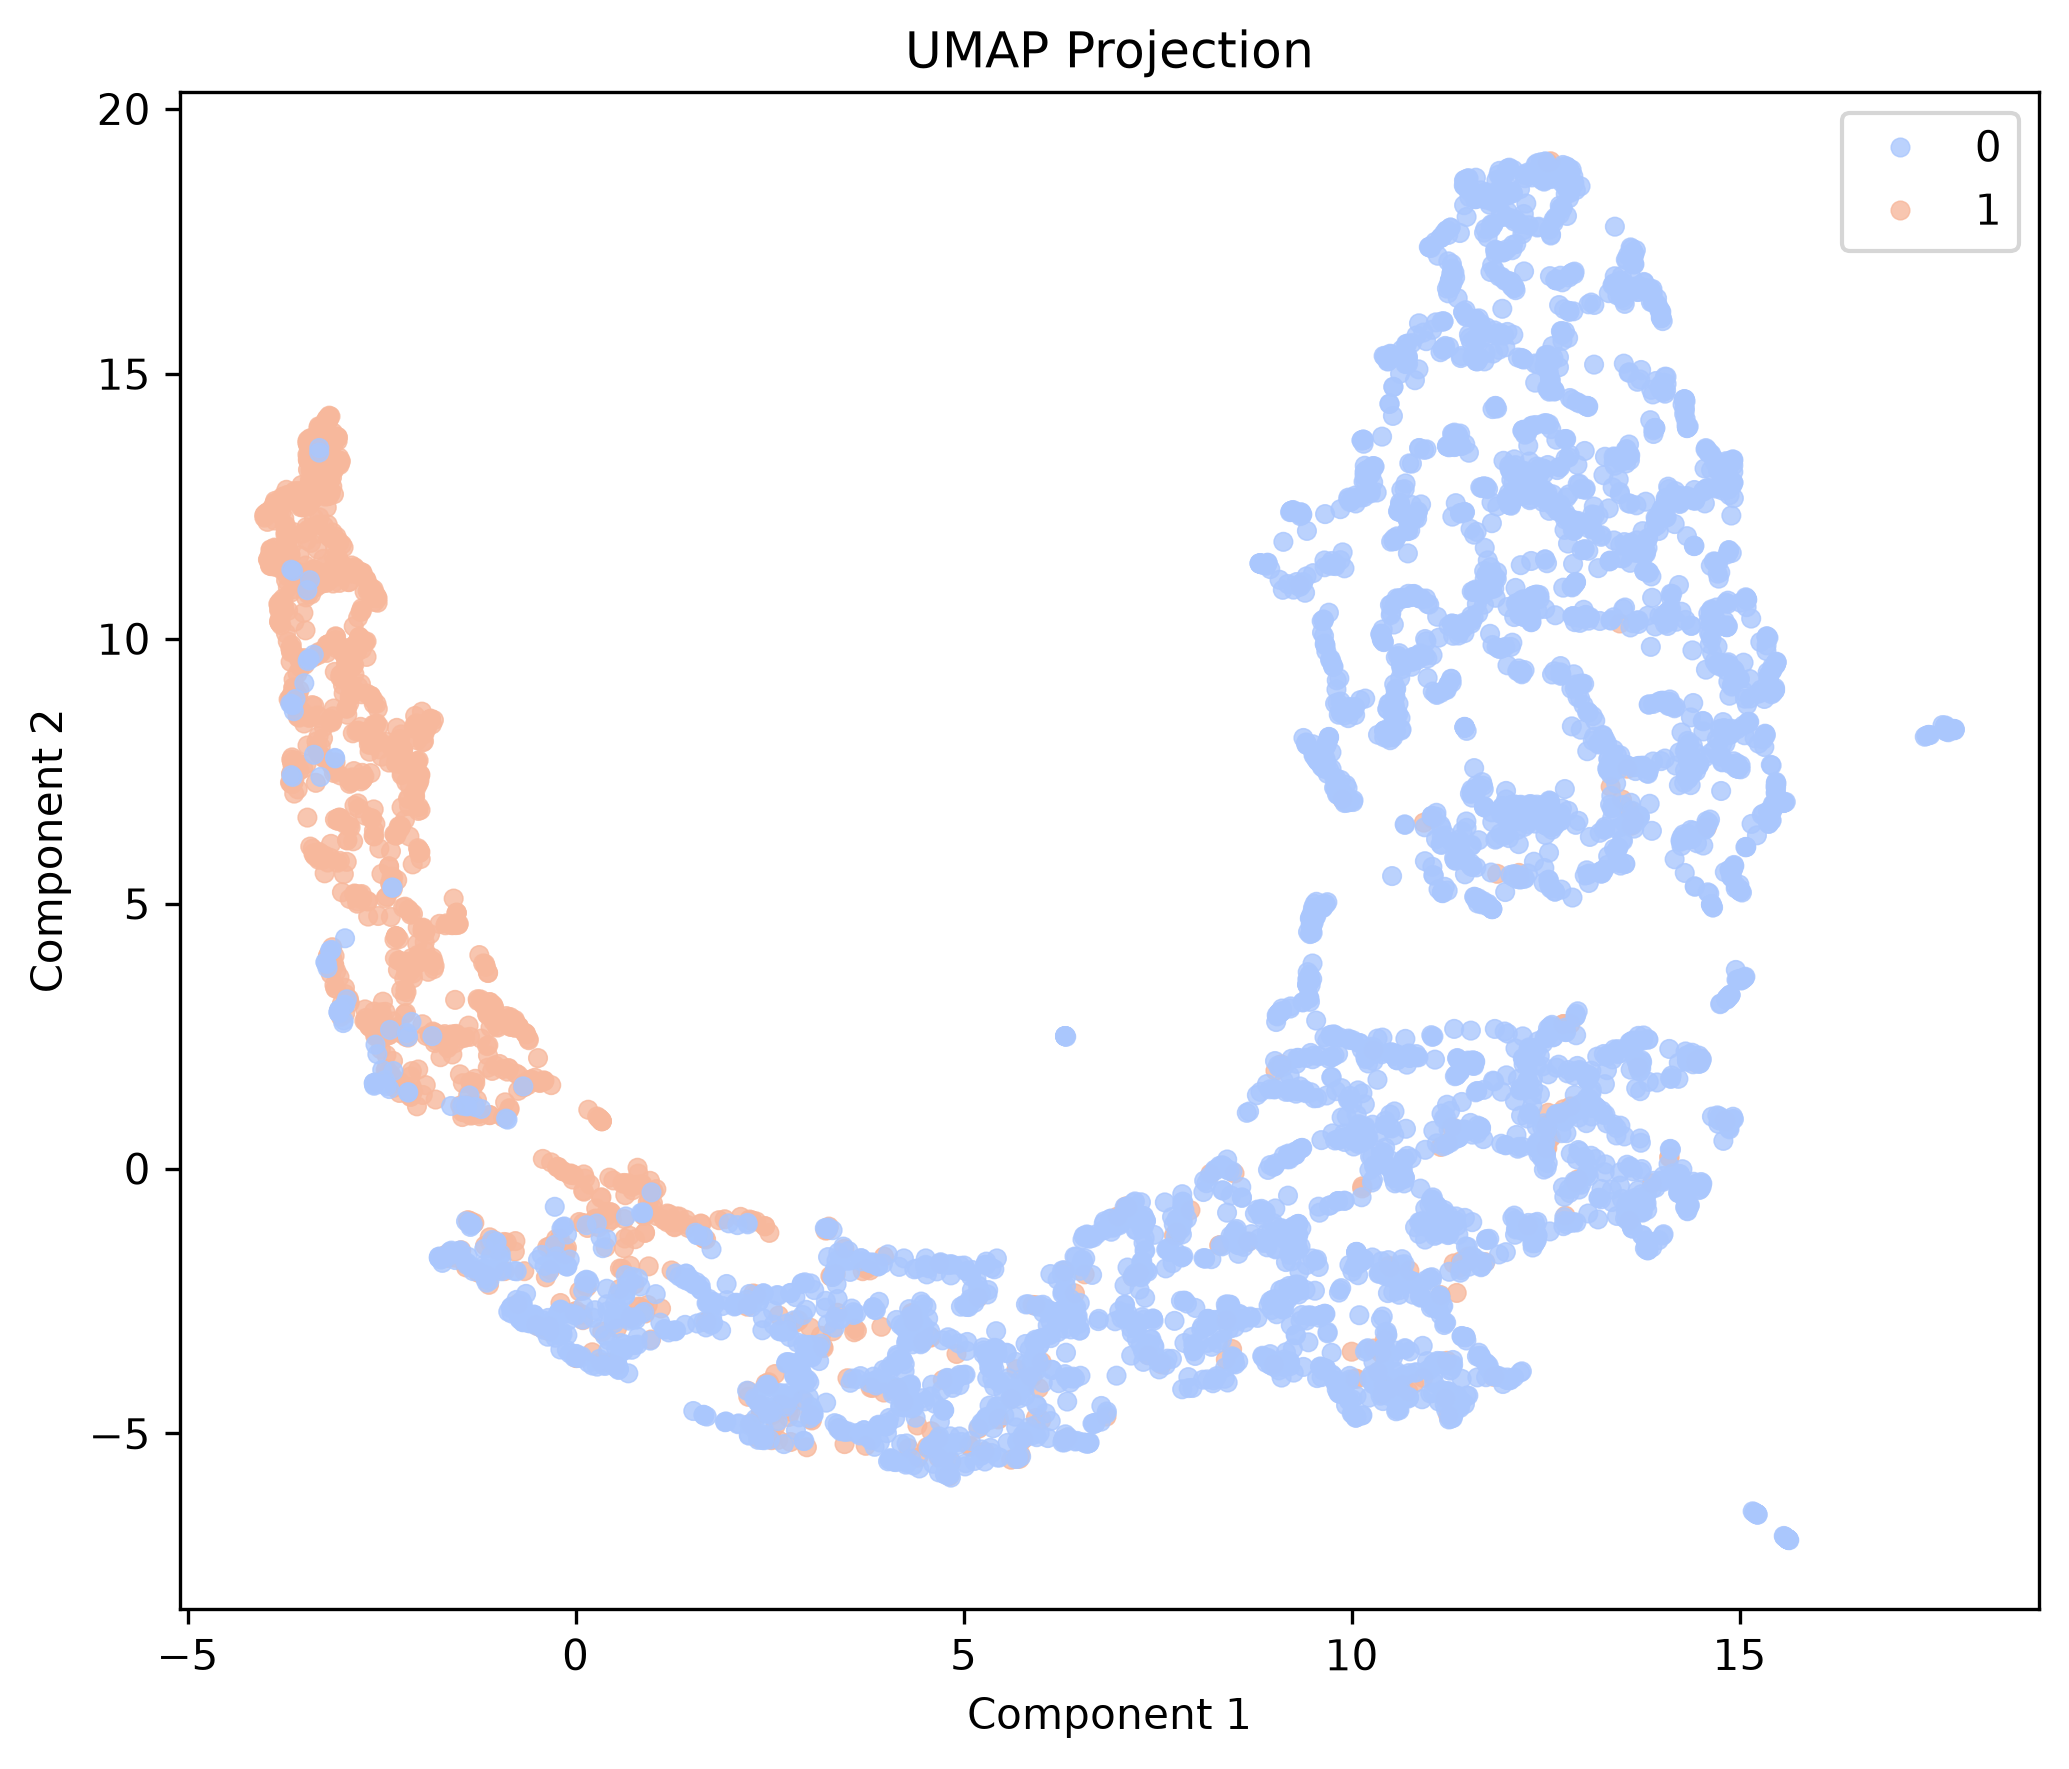
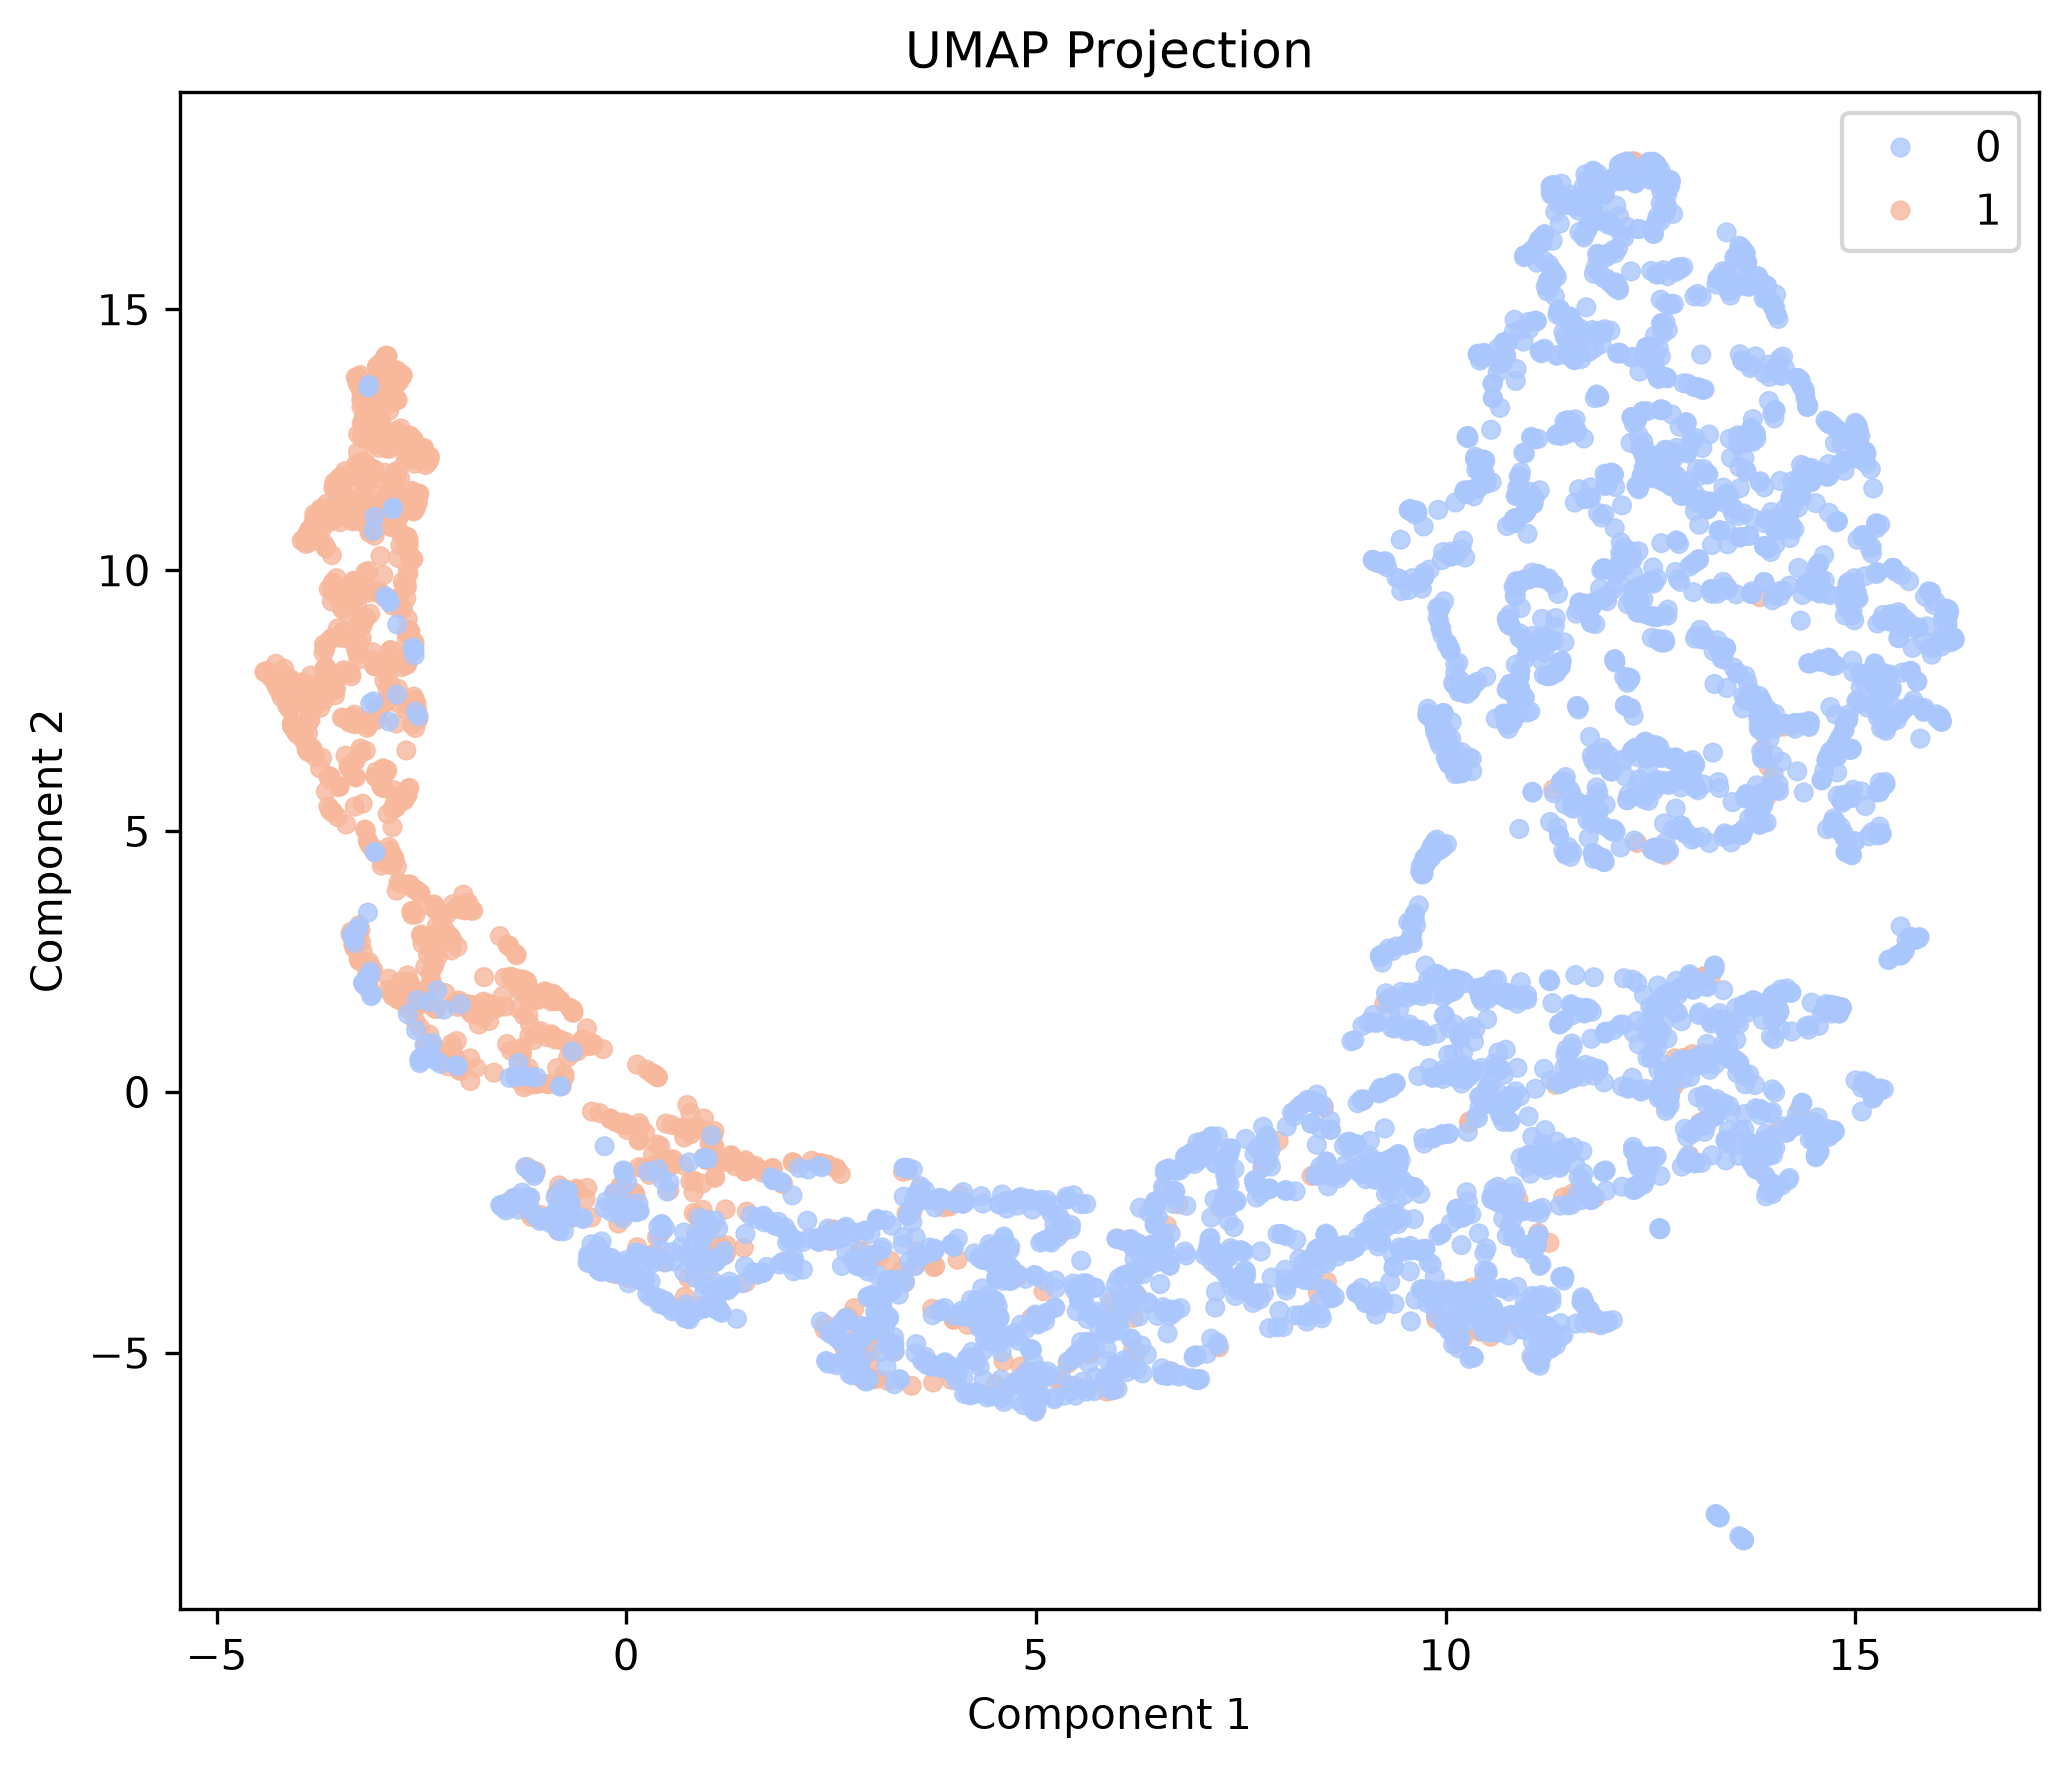
added random forest

diff --git a/utils.py b/utils.py
@@ -6,6 +6,10 @@ from sklearn.discriminant_analysis import LinearDiscriminantAnalysis as FLD
 from sklearn.manifold import TSNE
 import umap
 
+from sklearn.ensemble import RandomForestClassifier
+from sklearn.model_selection import cross_validate
+
+
 
 ######################### Statistics #############################
 
@@ -62,4 +66,47 @@ def proj_TSNE(data: np.ndarray, n: int) -> np.ndarray:
 
 def proj_UMAP(data: np.ndarray, n: int) -> np.ndarray:
     return umap.UMAP(n_components=n).fit_transform(data)
+##################################################################
+
+
+############################ Models ##############################
+def model_RF(data: np.ndarray, labels: np.ndarray) -> dict:
+    """
+    return a dictionary of test metrics:
+    {
+        'test_accuracy': [...]
+        'test_precision': [...]
+        'test_recall': [...]
+        'test_f1': [...]
+        'fit_time': [...]
+        'score_time': [...]
+    }
+    For 5-fold cross-validation, each list has 5 entries
+    """
+    model = RandomForestClassifier(
+        n_estimators=200,
+        max_depth=None,
+        min_samples_split=2,
+        min_samples_leaf=1,
+        max_features="sqrt",
+        bootstrap=True,
+        random_state=42
+    )
+    scores = cross_validate(
+        model, 
+        data, 
+        labels, 
+        cv=5, 
+        scoring=['accuracy', 'precision', 'recall', 'f1'],
+        return_train_score=False
+    )
+    
+    return scores
+
+def model_print_RF(scores: dict):
+    print("\n===== Random Forest (5-fold CV) =====")
+    print(f"Accuracy:  {scores['test_accuracy'].mean():.4f}")
+    print(f"Precision: {scores['test_precision'].mean():.4f}")
+    print(f"Recall:    {scores['test_recall'].mean():.4f}")
+    print(f"F1 Score:  {scores['test_f1'].mean():.4f}")
 ##################################################################

diff --git a/main.py b/main.py
@@ -3,6 +3,8 @@ import numpy as np
 import mne
 import seaborn as sns
 import matplotlib.pyplot as plt
+import os
+
 import utils
 
 ######################### Data Loading ###########################
@@ -49,7 +51,7 @@ def stats_extract(data: np.ndarray) -> dict:
     for i in range(data.shape[0]):
         x = data[i, :]
 
-        stats_dict[f'feature_{i}'] = {
+        stats_dict[f'sample_{i}'] = {
             "mean": utils.stats_mean(x),
             "std": utils.stats_SD(x),
             "var": utils.stats_variance(x),
@@ -68,12 +70,12 @@ def stats_print(stats: dict, limit: int = 16):
 
     count = 0
 
-    for feature, values in stats.items():
+    for sample, values in stats.items():
         if count >= limit:
             break
         count += 1
 
-        print(f"{feature}")
+        print(f"{sample}")
         print(f"  Mean:         {values['mean']:.4f}")
         print(f"  STD:          {values['std']:.4f}")
         print(f"  Variance:     {values['var']:.4f}")
@@ -84,6 +86,21 @@ def stats_print(stats: dict, limit: int = 16):
         print(f"  Kurtosis:     {values['kurt']:.4f}")
         #print(f"  Quantiles:    {values['quant']}")
         print()
+
+def stats_to_numpy(stats: dict) -> np.ndarray:
+    stats_arr = []
+    for sample, values in stats.items():
+        stats_arr.append([
+            values['mean'],
+            values['std'],
+            values['var'],
+            values['min'],
+            values['max'],
+            values['iqr'],
+            values['skew'],
+            values['kurt']
+        ])
+    return np.array(stats_arr, dtype=float)
 ##################################################################
 
 
@@ -107,6 +124,13 @@ def proj_run(data: np.ndarray, labels: np.ndarray | None, dim: int, use_FLD=Fals
     projections["UMAP"] = utils.proj_UMAP(data, dim)
 
     return projections
+
+def proj_exist(names: list[str], folder: str="output") -> bool:
+    for name in names:
+        path = os.path.join(folder, f"{name}.png")
+        if not os.path.exists(path):
+            return False
+    return True
 
 def proj_plot(name: str, proj: np.ndarray, labels: np.ndarray | None):
     if proj is None:
@@ -170,6 +194,7 @@ def proj_plot(name: str, proj: np.ndarray, labels: np.ndarray | None):
 
 ##################################################################
 
+
 def load_wine() -> tuple[np.ndarray, np.ndarray]:
     # Load Wine dataset
     red = load_file("dataset/winequality-red.csv")
@@ -188,6 +213,7 @@ def load_wine() -> tuple[np.ndarray, np.ndarray]:
 def main():
     USE_WINE = True
     USE_FLD = USE_WINE
+    TRAIN_MODEL = USE_WINE
 
     if USE_WINE:
         data, labels = load_wine()
@@ -198,12 +224,21 @@ def main():
     stats = stats_extract(data)
     stats_print(stats)
 
+    X_stats = stats_to_numpy(stats)
+    X = np.concatenate([data, X_stats], axis=1)
+
+    if TRAIN_MODEL:
+        scores_RF = utils.model_RF(X, labels)
+        utils.model_print_RF(scores_RF)
+
     def plot_all_projections(projections: dict, labels: np.ndarray | None):
         for name, proj in projections.items():
             proj_plot(name, proj, labels)
 
-    projections = proj_run(data, labels, dim=2, use_FLD=USE_FLD)
-    plot_all_projections(projections, labels)
+    names = ["PCA", "FLD", "TSNE", "UMAP"] if USE_FLD else ["PCA", "TSNE", "UMAP"]
+    if not proj_exist(names):
+        projections = proj_run(data, labels, dim=2, use_FLD=USE_FLD)
+        plot_all_projections(projections, labels)
 
 if __name__ == "__main__":
     main()